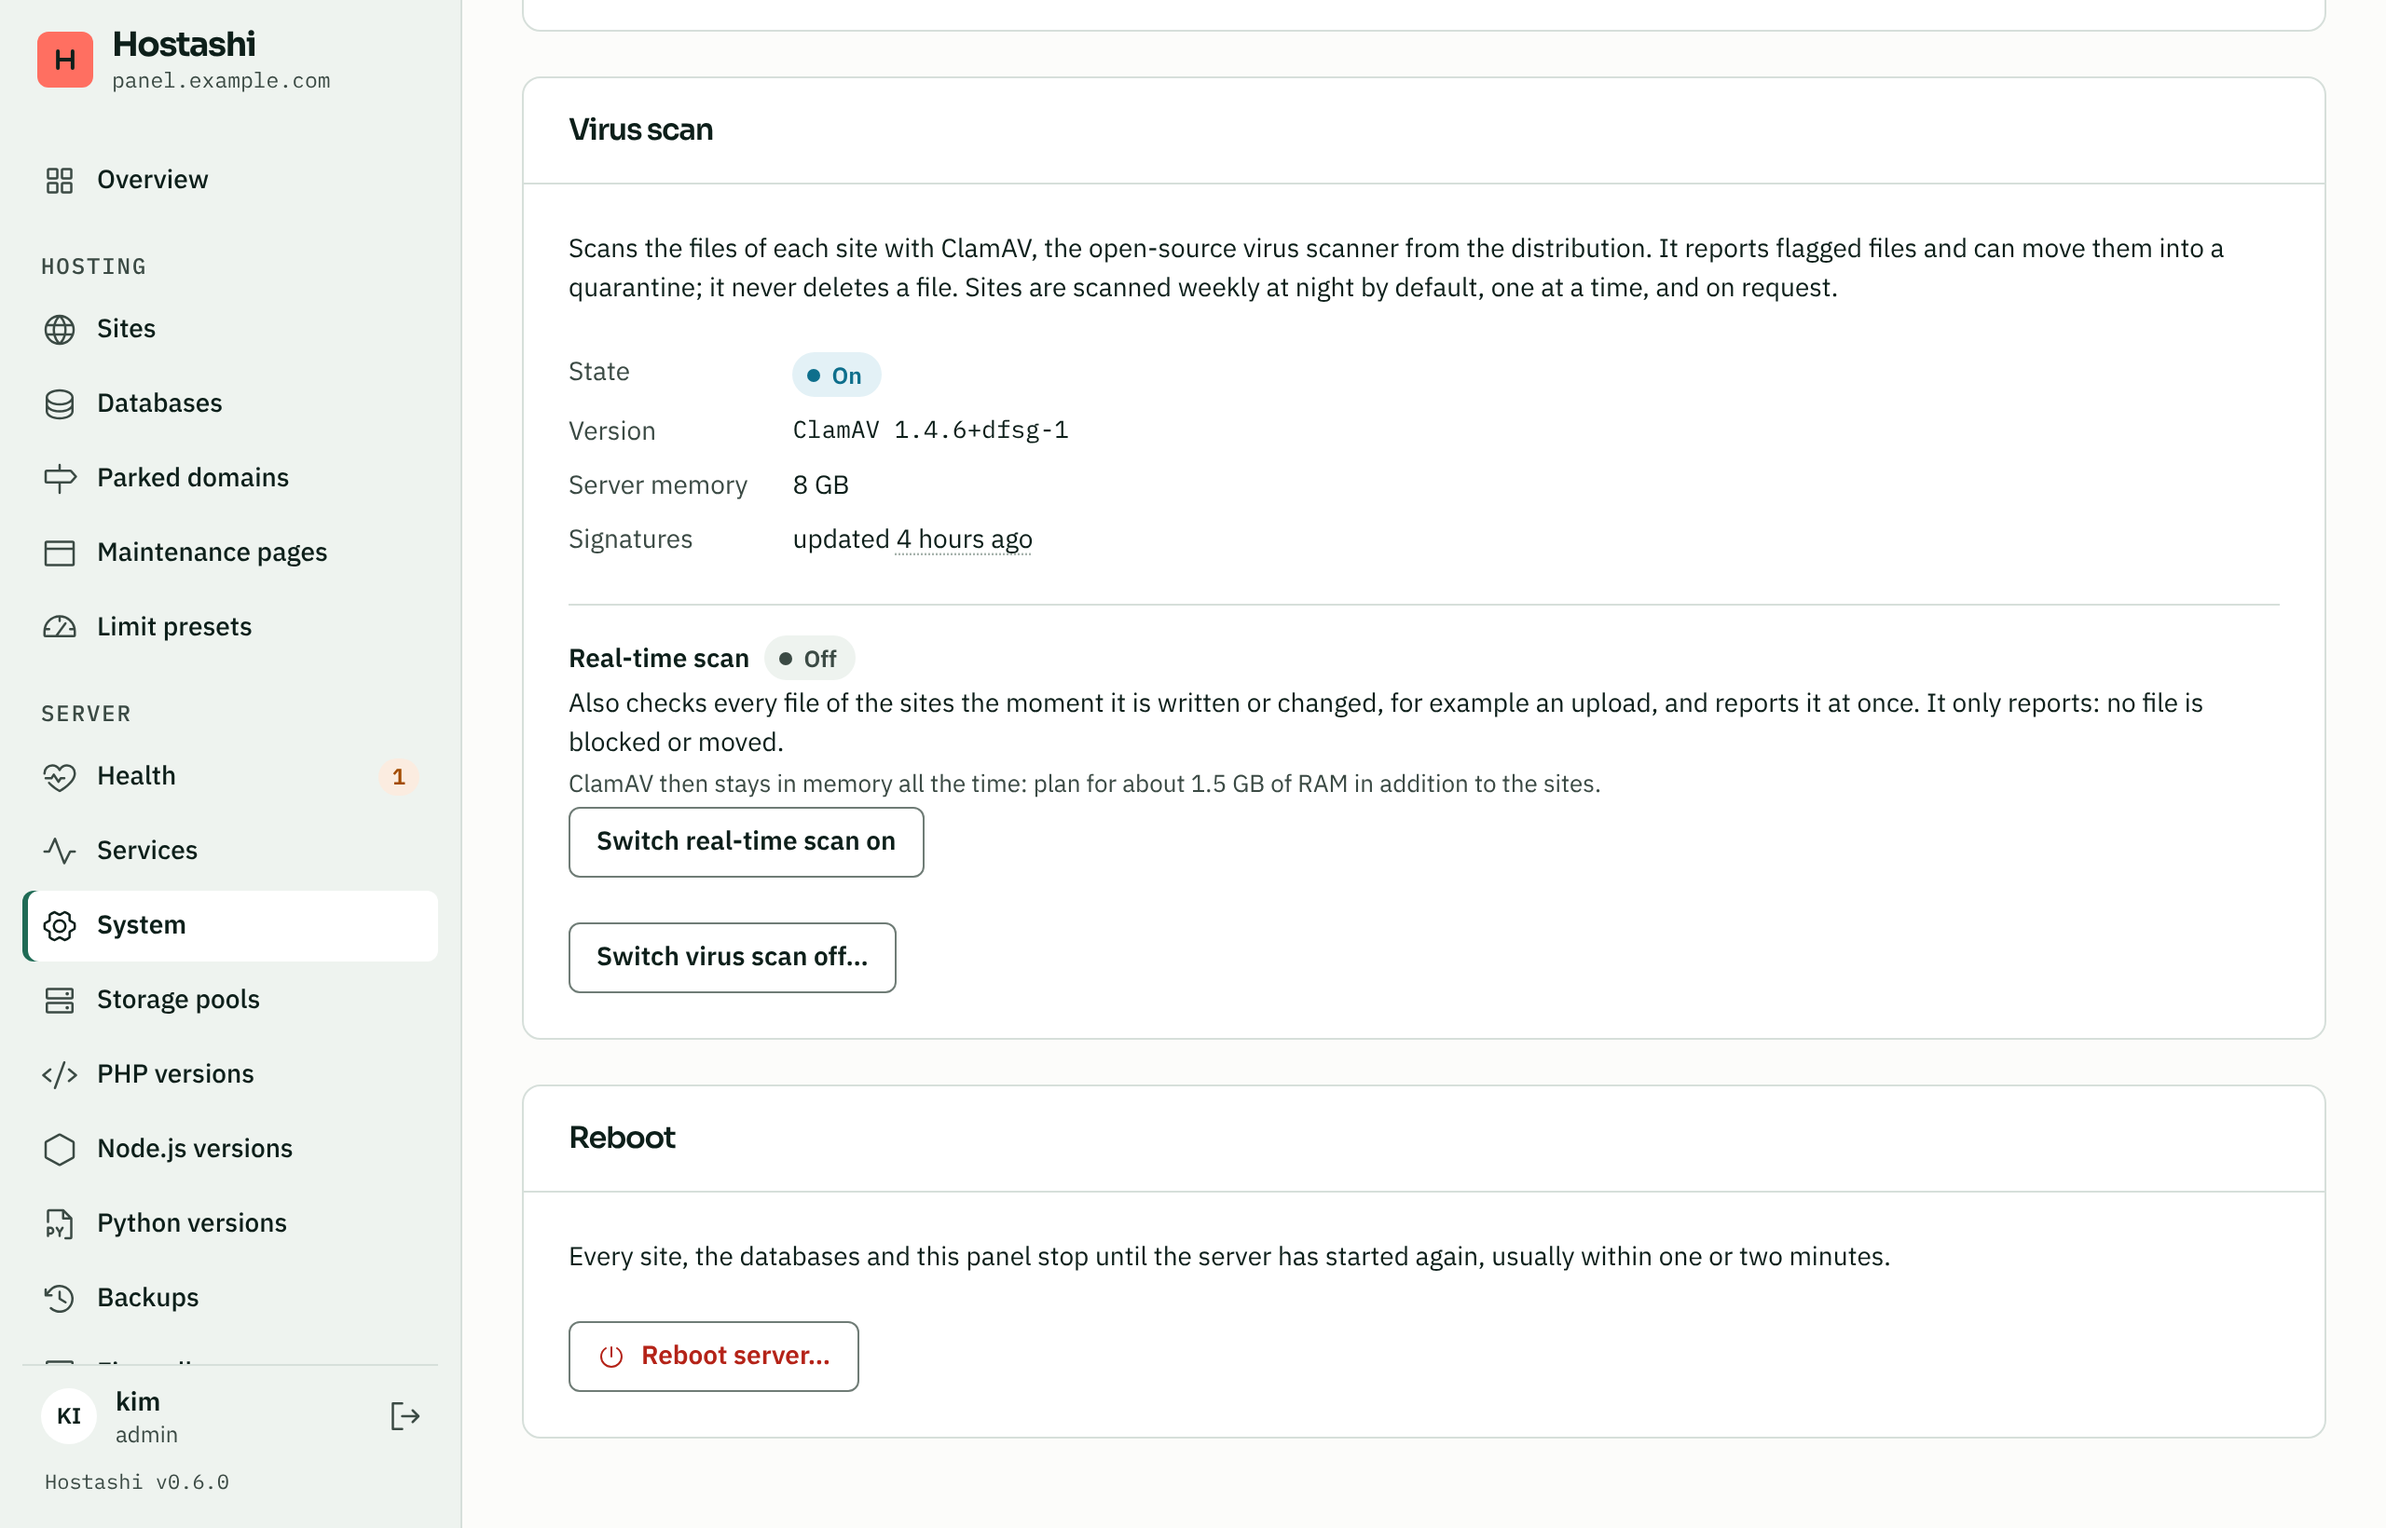
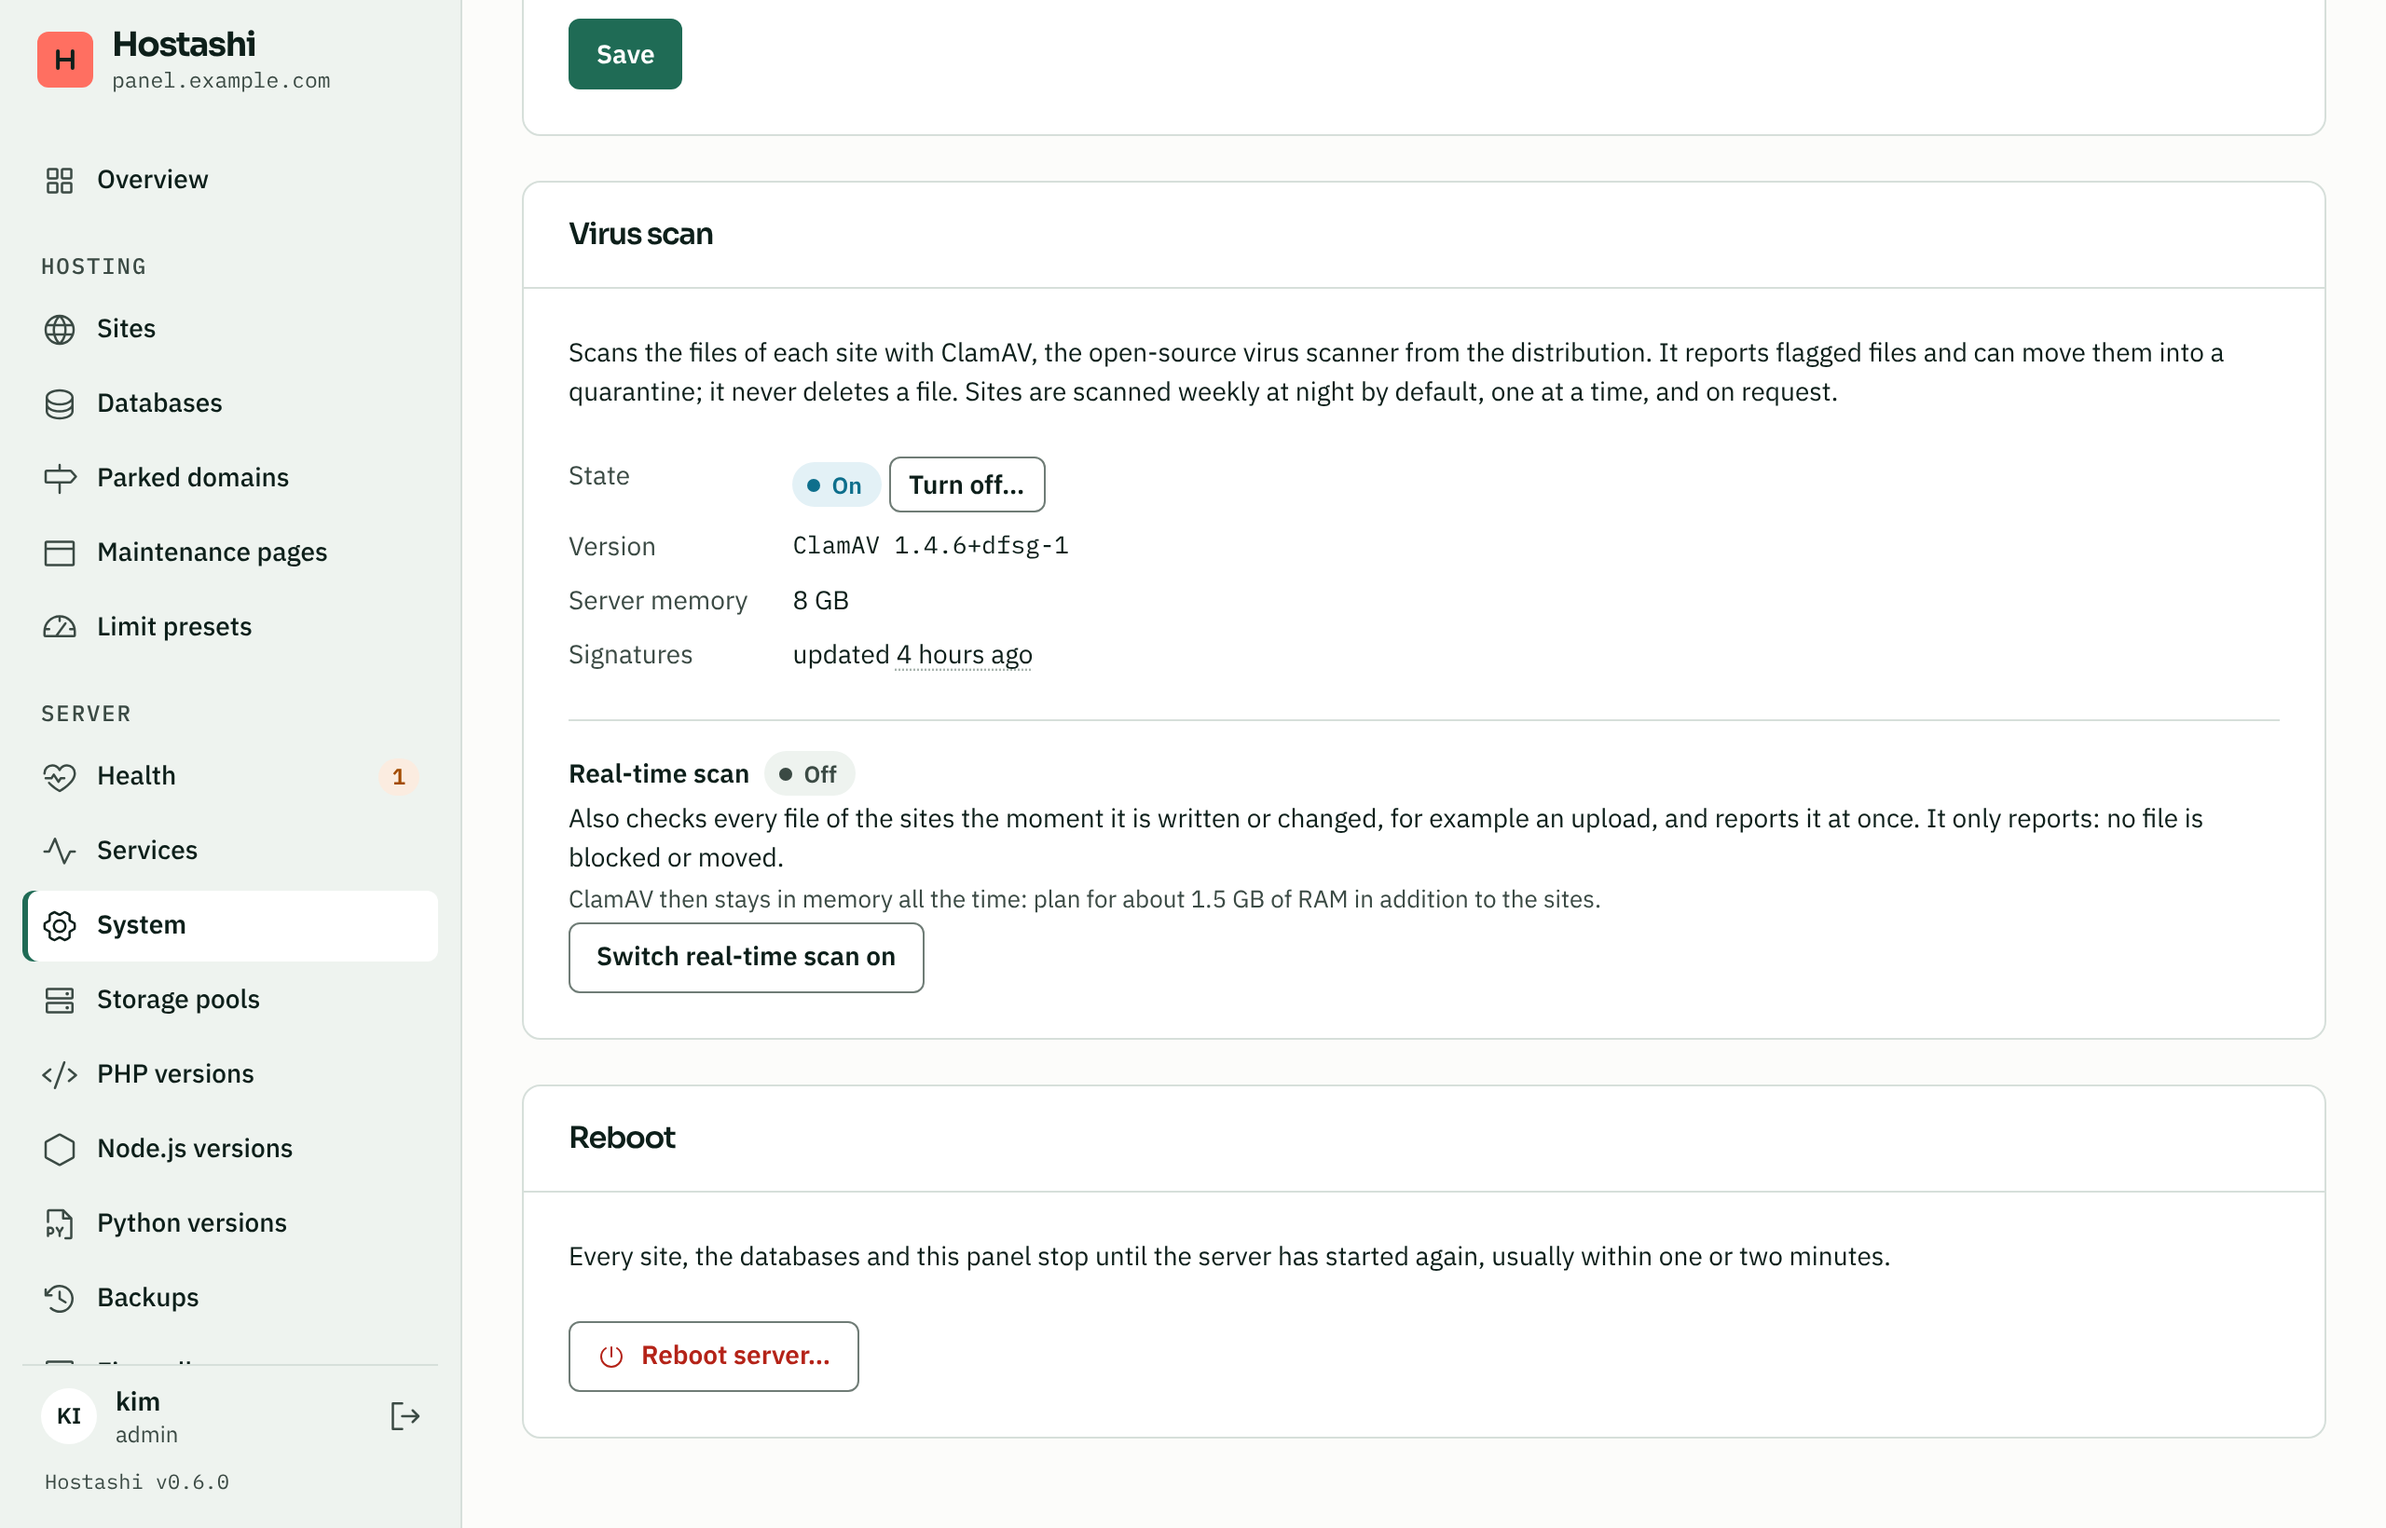
feat(web): turn the virus scan off next to its state
Claude-Session: https://claude.ai/code/session_01XnubJ6HRTrnRn98JuNMn1j

Changed region(s): [[0.2188, 0.1244, 0.9375, 0.5909], [0.2188, 0.0, 0.3125, 0.0933], [0.2812, 0.622, 0.375, 0.653]]

diff --git a/web/src/Malware.tsx b/web/src/Malware.tsx
@@ -106,8 +106,13 @@ export function MalwareEngineCard() {
         </p>
         <dl className="ui-facts" aria-label="ClamAV">
           <dt>State</dt>
-          <dd>
+          <dd className="ui-row ui-row-tight">
             <Badge tone={w.tone}>{w.word}</Badge>
+            {on && !confirming && (
+              <Button small onClick={() => setConfirming(true)}>
+                Turn off…
+              </Button>
+            )}
           </dd>
           {engine.version && (
             <>
@@ -128,6 +133,17 @@ export function MalwareEngineCard() {
             </>
           )}
         </dl>
+        {on && confirming && (
+          <div className="ui-row" role="alertdialog" aria-label="Switch the virus scan off">
+            <span>Remove ClamAV and its signatures? Findings, the history and the quarantine stay.</span>
+            <Button variant="danger" disabled={busy} onClick={() => void set(false)}>
+              Turn off
+            </Button>
+            <Button disabled={busy} onClick={() => setConfirming(false)}>
+              Cancel
+            </Button>
+          </div>
+        )}
         {!on && !working && (
           <Notice tone="warn" title={lowMemory(engine, scanMemory) ? "Low memory for virus scans" : "ClamAV needs memory and disk space"}>
             A scan needs about 1.5 GB of memory while it runs.
@@ -178,22 +194,6 @@ export function MalwareEngineCard() {
           </Notice>
         )}
         {error && <Notice tone="err" title={error} />}
-        {on &&
-          (confirming ? (
-            <div className="ui-row" role="alertdialog" aria-label="Switch the virus scan off">
-              <span>Remove ClamAV and its signatures? Findings, the history and the quarantine stay.</span>
-              <Button variant="danger" disabled={busy} onClick={() => void set(false)}>
-                Switch off
-              </Button>
-              <Button disabled={busy} onClick={() => setConfirming(false)}>
-                Cancel
-              </Button>
-            </div>
-          ) : (
-            <div className="ui-row">
-              <Button onClick={() => setConfirming(true)}>Switch virus scan off…</Button>
-            </div>
-          ))}
       </div>
     </Card>
   );

diff --git a/web/src/Malware.test.tsx b/web/src/Malware.test.tsx
@@ -130,9 +130,9 @@ describe("MalwareEngineCard", () => {
     });
     const user = userEvent.setup();
     render(<MalwareEngineCard />);
-    await user.click(await screen.findByRole("button", { name: "Switch virus scan off…" }));
+    await user.click(await screen.findByRole("button", { name: "Turn off…" }));
     expect(calls.filter((c) => c.method === "PUT")).toHaveLength(0);
-    await user.click(within(screen.getByRole("alertdialog")).getByRole("button", { name: "Switch off" }));
+    await user.click(within(screen.getByRole("alertdialog")).getByRole("button", { name: "Turn off" }));
     expect(calls.find((c) => c.method === "PUT")?.body).toEqual({ on: false });
   });
 });

diff --git a/docs/wiki/Virus-scan.md b/docs/wiki/Virus-scan.md
@@ -14,7 +14,7 @@ The scan is off on a new server. An admin switches it on under **System → Viru
 
 ClamAV needs memory while it scans: plan for about 1.5 GB of free RAM while a site is scanned. The card shows the server's memory and warns below 2 GB. Only one site is scanned at a time on the whole server, so this is paid once, not per site, and it does not count against a site's [memory limit](Limits.md). The signatures take about 300 MB on disk and are updated several times a day.
 
-**Switch virus scan off…** removes ClamAV and its signatures again. Findings, the history and the quarantine stay.
+**Turn off…** next to the state removes ClamAV and its signatures again. Findings, the history and the quarantine stay.
 
 You can also install it with the server: `install.sh apply --malware-scan` (see [Install](Install.md)).
 
